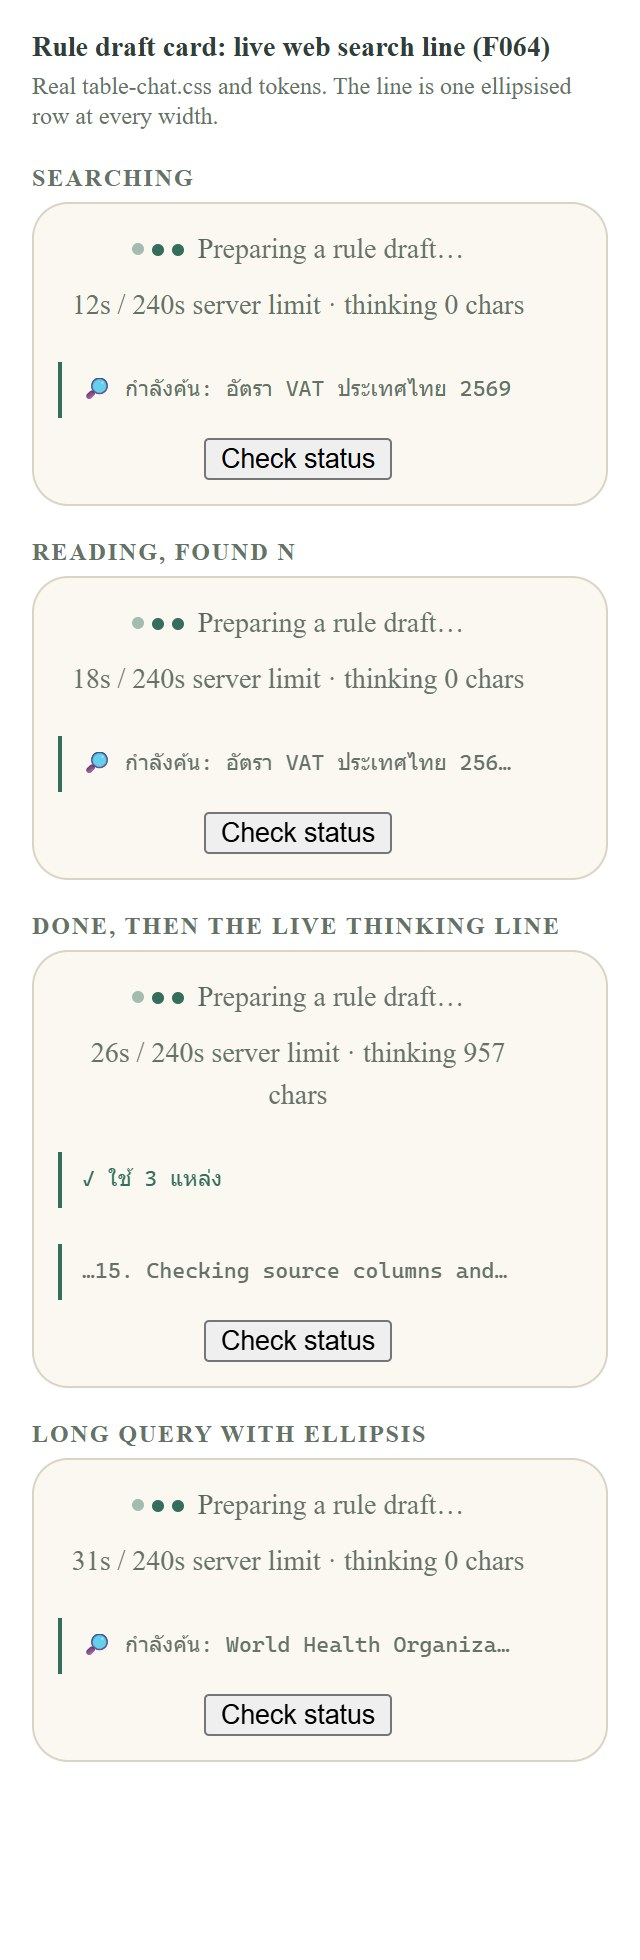
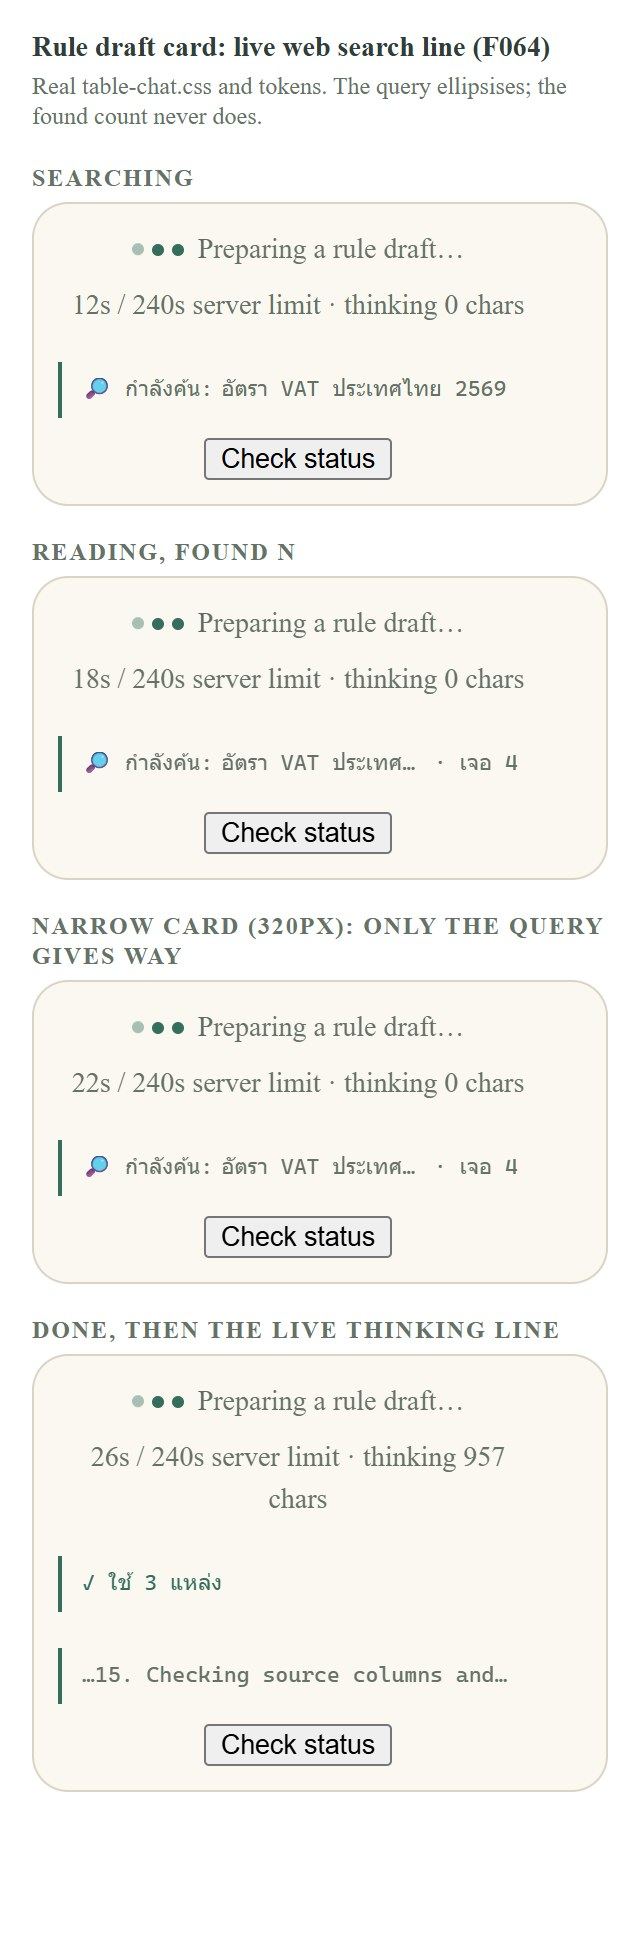
F064: keep the found count readable and stop the thinking line overflowing

diff --git a/src/tabletop/ui/useTableChat.tsx b/src/tabletop/ui/useTableChat.tsx
@@ -15,7 +15,7 @@ import { TABLE_AI_INPUT_BYTES } from '../domain/table';
 import { ClarificationAnswers } from './ClarificationAnswers';
 import { rememberConsent } from './table-chat-consent';
 import { viewerCan } from '../shared/permissions';
-import { draftFailureSummary, draftHistoryCard, draftInFlight, draftLimitSeconds, draftPartialLabel, draftPollLimitMs, draftRefreshPatch, draftSources, draftSourcesLabel, draftStopReason, draftThinkingLabel, historyCard, isUncertainRequest, liveSearchLine, liveThinkingLine, mergeChatHistory, nextQueuedDraft, sameChatRequestScope, tableChatMode, type ChatCard } from './table-chat-state';
+import { draftFailureSummary, draftHistoryCard, draftInFlight, draftLimitSeconds, draftPartialLabel, draftPollLimitMs, draftRefreshPatch, draftSources, draftSourcesLabel, draftStopReason, draftThinkingLabel, historyCard, isUncertainRequest, liveSearchParts, liveThinkingLine, mergeChatHistory, nextQueuedDraft, sameChatRequestScope, tableChatMode, type ChatCard } from './table-chat-state';
 
 type TableView = WorkspaceView & { kind: 'table'; domain: TableState };
 type CommandId = ReturnType<typeof crypto.randomUUID>;
@@ -928,11 +928,15 @@ function ChatCardContent({ card, view, readOnly, retryDisabled, busy, onOpenObje
     const liveThinkingTail = card.kind === 'draft' ? card.modelJob?.progress?.thinkingTail : undefined;
     const liveThinking = liveThinkingTail ? liveThinkingLine(liveThinkingTail) : null;
     // F064: the research step runs before the draft, and its closing line stays while it drafts.
-    const liveSearch = card.kind === 'draft' ? liveSearchLine(card.modelJob?.progress?.search) : null;
+    const liveSearch = card.kind === 'draft' ? liveSearchParts(card.modelJob?.progress?.search) : null;
     return <div className="tt-chat-card tt-chat-card--working" role="status" data-testid="table-chat-answer" data-phase={card.phase}>
       <p className="tt-chat-card__pending tt-chat-card__pending--working"><span className="tt-chat-dots" aria-hidden="true"><i /><i /><i /></span><span className="tt-chat-card__shimmer">{pendingText}</span><ElapsedLabel startedAt={card.job?.createdAt ?? card.createdAt} kind={card.kind} limitMs={card.kind === 'draft' ? card.modelJob?.limitMs : undefined} chars={progress?.receivedChars} reasoningChars={progress?.reasoningChars} /></p>
       {liveSearch && <div className="tt-chat-card__search" data-testid="draft-live-search" data-search-phase={card.modelJob?.progress?.search?.phase}>
-        <p className="tt-chat-card__search-line" aria-live="off">{liveSearch}</p>
+        <p className="tt-chat-card__search-line" aria-live="off">
+          <span className="tt-chat-card__search-text">{liveSearch.icon} {liveSearch.text}</span>
+          {liveSearch.query !== undefined && <span className="tt-chat-card__search-query">{liveSearch.query}</span>}
+          {liveSearch.found !== undefined && <span className="tt-chat-card__search-count">· เจอ {liveSearch.found}</span>}
+        </p>
       </div>}
       {liveThinking && <div className="tt-chat-card__thinking" data-testid="draft-live-thinking" data-thinking-chars={progress?.reasoningChars}>
         <p className="tt-chat-card__thinking-line" aria-live="off">{liveThinking}</p>

diff --git a/src/tabletop/ui/table-chat-state.ts b/src/tabletop/ui/table-chat-state.ts
@@ -305,18 +305,44 @@ export function liveThinkingLine(tail: string | undefined, maxChars = LIVE_THINK
 export const LIVE_SEARCH_QUERY_CHARS = 160;
 
 /**
- * F064: one line saying what the research step is doing: what it searches, what it found, and then
- * what the draft actually used. Re-bounded here as well, so a hostile or older job row cannot grow
- * the card. Returns null when there is nothing worth showing (no search, or no query text yet).
+ * F064: the pieces of that line, so the card can ellipsise only the query. On a 320px card the
+ * "· เจอ N" count would otherwise be the first thing cut, and it is the half users watch.
  */
-export function liveSearchLine(search: ModelJobSearchProgress | undefined, maxQueryChars = LIVE_SEARCH_QUERY_CHARS): string | null {
+export interface LiveSearchParts {
+  /** The glyph the agreed copy uses (`🔎` while working, `✓` when finished). */
+  icon: string;
+  /** Copy around the query: `กำลังค้น:` while working, `ใช้ 3 แหล่ง` when finished. */
+  text: string;
+  /** The bounded query, only while searching or reading. */
+  query?: string;
+  /** How many results the adapter kept, only while reading. */
+  found?: number;
+}
+
+/**
+ * F064: split the live search line so the found count can never be ellipsised away.
+ * Re-bounded here as well, so an older or hostile job row cannot grow the card.
+ */
+export function liveSearchParts(search: ModelJobSearchProgress | undefined, maxQueryChars = LIVE_SEARCH_QUERY_CHARS): LiveSearchParts | null {
   if (!search) return null;
-  if (search.phase === 'done') return `✓ ใช้ ${search.resultsCount} แหล่ง`;
+  if (search.phase === 'done') return { icon: '✓', text: `ใช้ ${search.resultsCount} แหล่ง` };
   const query = headWithin(search.query.replace(/\s+/gu, ' ').trim(), maxQueryChars).trim();
   if (!query) return null;
   return search.phase === 'reading'
-    ? `🔎 กำลังค้น: ${query} · เจอ ${search.resultsCount}`
-    : `🔎 กำลังค้น: ${query}`;
+    ? { icon: '🔎', text: 'กำลังค้น:', query, found: search.resultsCount }
+    : { icon: '🔎', text: 'กำลังค้น:', query };
+}
+
+/**
+ * F064: one line saying what the research step is doing: what it searches, what it found, and then
+ * what the draft actually used. Returns null when there is nothing worth showing.
+ */
+export function liveSearchLine(search: ModelJobSearchProgress | undefined, maxQueryChars = LIVE_SEARCH_QUERY_CHARS): string | null {
+  const parts = liveSearchParts(search, maxQueryChars);
+  if (!parts) return null;
+  if (parts.query === undefined) return `${parts.icon} ${parts.text}`;
+  const tail = parts.found === undefined ? '' : ` · เจอ ${parts.found}`;
+  return `${parts.icon} ${parts.text} ${parts.query}${tail}`;
 }
 
 /** F064 slice B: how much of a source title the card shows before the row wraps. */

diff --git a/src/tabletop/ui/table-chat.css b/src/tabletop/ui/table-chat.css
@@ -140,8 +140,10 @@
 .tt-app .tt-chat-card__partial--thinking > pre { max-height: 160px; color: var(--tt-muted); font-size: 11px; line-height: 16px; }
 
 /* F050: the live thinking line while a rule draft runs. One ellipsised line at any width, so a long
-   reasoning tail can never push the card's buttons off-screen at 320px; the full bound stays in the details. */
-.tt-app .tt-chat-card__thinking { display: grid; gap: 4px; min-width: 0; margin-top: var(--tt-space-2); }
+   reasoning tail can never push the card's buttons off-screen at 320px; the full bound stays in the details.
+   A working card centres its grid items, so the row must stretch explicitly or a nowrap tail sizes it
+   to content and overflows the card (the same trap F064 found). */
+.tt-app .tt-chat-card__thinking { display: grid; gap: 4px; min-width: 0; margin-top: var(--tt-space-2); justify-self: stretch; }
 .tt-app .tt-chat-card .tt-chat-card__thinking-line {
   display: block; min-width: 0; margin: 0; padding: 6px 10px; border-left: 2px solid var(--tt-moss);
   border-radius: 0 var(--tt-radius-medium, 10px) var(--tt-radius-medium, 10px) 0;
@@ -164,12 +166,16 @@
    centres its grid items, so the row must stretch explicitly or a nowrap query sizes it to content. */
 .tt-app .tt-chat-card__search { justify-self: stretch; margin-top: var(--tt-space-2); min-width: 0; }
 .tt-app .tt-chat-card .tt-chat-card__search-line {
-  display: block; min-width: 0; margin: 0; padding: 6px 10px; border-left: 2px solid var(--tt-moss);
+  display: flex; gap: 4px; align-items: baseline;
+  min-width: 0; margin: 0; padding: 6px 10px; border-left: 2px solid var(--tt-moss);
   border-radius: 0 var(--tt-radius-medium, 10px) var(--tt-radius-medium, 10px) 0;
   background: var(--tt-paper); color: var(--tt-muted);
   font-family: ui-monospace, 'Cascadia Mono', monospace; font-size: 11px; line-height: 16px;
-  white-space: nowrap; overflow: hidden; text-overflow: ellipsis;
+  white-space: nowrap; overflow: hidden;
 }
+/* Only the query gives way when the card is narrow: the "· เจอ N" count must always stay readable. */
+.tt-app .tt-chat-card__search-text, .tt-app .tt-chat-card__search-count { flex: none; }
+.tt-app .tt-chat-card__search-query { min-width: 0; overflow: hidden; text-overflow: ellipsis; }
 /* Once research is done the line stops moving and reports what the draft actually used. */
 .tt-app .tt-chat-card__search[data-search-phase='done'] .tt-chat-card__search-line { color: var(--tt-moss); }
 

diff --git a/src/tabletop/ui/table-chat-state.test.ts b/src/tabletop/ui/table-chat-state.test.ts
@@ -4,7 +4,7 @@ import { MAX_JOB_PARTIAL_CONTENT_CHARS, MAX_JOB_RESEARCH_SOURCES, MAX_JOB_SEARCH
 import {
   canApplyWorkspaceRefresh, DRAFT_SOURCE_TITLE_CHARS, draftFailureSummary, draftInFlight, draftLimitMs, draftLimitSeconds, draftPartialLabel,
   draftPollLimitMs, draftRefreshBackoffMs, draftRefreshPatch, draftSources, draftSourcesLabel, draftStopReason, draftThinkingLabel, formatSourceDate, historyCard,
-  LIVE_SEARCH_QUERY_CHARS, LIVE_THINKING_LINE_CHARS, liveSearchLine, liveThinkingLine, nextQueuedDraft, isUncertainRequest, mergeChatHistory, sameChatRequestScope, tableChatMode, type ChatCard,
+  LIVE_SEARCH_QUERY_CHARS, LIVE_THINKING_LINE_CHARS, liveSearchLine, liveSearchParts, liveThinkingLine, nextQueuedDraft, isUncertainRequest, mergeChatHistory, sameChatRequestScope, tableChatMode, type ChatCard,
 } from './table-chat-state';
 
 const job = (patch: Partial<TableAssistantJob> = {}): TableAssistantJob => ({
@@ -261,6 +261,16 @@ describe('live search line while a draft runs (F064)', () => {
 
   it('ends on what the draft actually used instead of repeating the query', () => {
     expect(liveSearchLine(search({ phase: 'done', resultsCount: 3 }))).toBe('✓ ใช้ 3 แหล่ง');
+  });
+
+  it('splits the line so only the query can be ellipsised and the count always shows', () => {
+    expect(liveSearchParts(search({ phase: 'reading', resultsCount: 4 })))
+      .toEqual({ icon: '🔎', text: 'กำลังค้น:', query: 'VAT ไทย 2569', found: 4 });
+    expect(liveSearchParts(search()))
+      .toEqual({ icon: '🔎', text: 'กำลังค้น:', query: 'VAT ไทย 2569' });
+    expect(liveSearchParts(search({ phase: 'done', resultsCount: 3 })))
+      .toEqual({ icon: '✓', text: 'ใช้ 3 แหล่ง' });
+    expect(liveSearchParts(undefined)).toBeNull();
   });
 
   it('re-bounds the query and collapses whitespace, so an oversized row cannot widen the card', () => {

diff --git a/docs/features/F064-web-search.md b/docs/features/F064-web-search.md
@@ -118,10 +118,20 @@ Node **22.23.2** · branch `feat/F064-search-visibility`
 ### ความเสี่ยง / ข้อจำกัดสไลซ์ A
 
 - **ยังไม่ยืนยันด้วย browser suite แบบ end-to-end**: provider, worker และ client line มี unit/worker test ครบ และมี harness render จริงแล้ว แต่ยังไม่มี fixture ที่ stream event ค้นผ่านเบราว์เซอร์ทั้งเส้น
-- **การ์ดแคบมาก (320px)**: บรรทัดเดียวจึงตัดท้ายด้วย `…` ได้ เช่น query ไทยยาวจะเห็น `…2569` โดย `· เจอ N` ถูกตัด (ที่ 414px เห็นครบ); บรรทัดปิด `✓ ใช้ N แหล่ง` สั้นจึงเห็นครบเสมอ — ตัวเลข"N ที่ใช้จริง" จึงไม่หาย
+- **การ์ดแคบมาก (320px)**: แก้แล้วใน follow-up 2026-10-23 — บรรทัดแยกเป็น span, ellipsis เฉพาะ query และ `· เจอ N` ถูกตรึงไว้ (`flex: none`) จึงเห็น count เสมอ
 - **ข้อความจากผู้ให้บริการ**: query มาจากโมเดลและ title มาจากเว็บสาธารณะ → redact ก่อนเก็บเหมือน thinking tail
 - **ค่าใช้จ่ายต่อ tick**: job row โตขึ้น ≤300 ตัวอักษรต่อครั้งที่เขียน (ไม่เกิน 1 ครั้ง/900 ms) และถูกเขียนทับด้วยผลลัพธ์เมื่อจบ
-- **ข้อสังเกต (ไม่แก้ในสไลซ์นี้):** บรรทัด `liveThinkingLine` ของ F050 เป็น grid item ใน `.tt-chat-card--working` ที่ `justify-items:center` จึงมีโอกาสถูกจัดขนาดตาม content (nowrap) แบบเดียวกับที่พบในสไลซ์นี้; สไลซ์นี้แก้เฉพาะ element ของตนด้วย `justify-self: stretch` — F050 ควรได้ `justify-self: stretch` เพิ่มถ้าพบข้อความยาวล้นในการ์ดแคบ
+- **F050 ได้รับการแก้แบบเดียวกันแล้ว** ใน follow-up นี้: `.tt-chat-card__thinking` มี `justify-self: stretch` — บรรทัด thinking ที่ยาวจะไม่ดันการ์ดอีก
+
+### Follow-up 2026-10-23 (branch `fix/F064-followups`)
+
+| เรื่อง | สิ่งที่แก้ |
+| --- | --- |
+| `· เจอ N` ถูกตัดที่ 320px | `liveSearchParts()` แยก `{icon, text, query, found}`; JSX แยก span `.tt-chat-card__search-query` (ellipsis) กับ `.tt-chat-card__search-count` (`flex: none`) — `liveSearchLine()` ยังคืนสตริงเดิมเพื่อ test/a11y |
+| F050 latent overflow | `.tt-chat-card__thinking { justify-self: stretch; }` — grid item ที่ถูก `justify-items:center` ไม่ถูกจัดขนาดตาม nowrap content |
+| browser fixture นับ provider call เกิน | dev แก้ `TABLE_WEB_SEARCH: 'off'` ใน `tests/*-browser.mjs` แล้ว (มาจาก F066); follow-up เติมให้ `scripts/{generic-table-local,canvas-evolution-local}.mjs` ในโหมด synthetic เท่านั้น (โหมด `--real-ai` ยังเปิด research) |
+
+ผลตรวจ (Node 22.23.2): unit **819 passed / 5 skipped** (113 ไฟล์), `test:cloudflare` **170/170**, `build` ผ่าน, `lint` 0 error / 107 warning, public scan 0 finding, ui-gate harness **15/16** (เหลือ "No emoji" ตาม copy `🔎`/`✓` ที่ handoff กำหนด) · เพิ่ม unit 2 เคสของ `liveSearchParts` และอัปเดตภาพ `docs/previews/f064-search-line-{320,414}.jpg` ให้เห็น count ครบที่การ์ดแคบ
 
 
 ## ผลตรวจ

diff --git a/PLAN.md b/PLAN.md
@@ -163,3 +163,4 @@
 | F064-T5..T7 | สไลซ์ A — เห็นสด "กำลังค้นอะไร เจออะไร": research provider มี `onProgress({phase,query,resultsCount,topTitle})` · worker ส่งต่อช่อง progress เดิมของ F050 (redact + bound ≤300, throttle 900 ms) · การ์ดแสดง `🔎 กำลังค้น: … · เจอ N` แล้วจบด้วย `✓ ใช้ N แหล่ง` | `review` | lead (AI) | `feat/F064-search-visibility` / #211 | `server/providers/{deepseek-research,deepseek-changes}.ts`, `cloudflare/{ai,room}.ts`, `src/tabletop/shared/model-job-progress.ts`, `src/tabletop/ui/{table-chat-state.ts,useTableChat.tsx,table-chat.css}`, `cloudflare/room.test.ts`, `server/providers/deepseek-research.test.ts`, `src/tabletop/ui/table-chat-state.test.ts` | — | research ยัง best-effort (ห้าม throw ทำให้ร่างล้ม) · เว้นเมื่อมี `fetchImpl` ฉีด · web sources ยังไม่เข้า `program.evidence` · ไม่มี migration/secret/binding |
 | F055-T1..T3 | "ตารางคำนวณจริง" แบบ Excel: parser (IF/CEIL/ROUND/MIN/MAX/AND/OR/compare/text), type-check, server คำนวณใน projectDomain เป็น computedValues (projection-only), UI ช่องสูตร + validation, local proof | `review` | lead (AI) | `feat/F055-computed-formulas` | `src/tabletop/shared/{computed-formula.ts,computed-columns.ts,table-contracts.ts}`, `src/tabletop/domain/projections.ts`, `src/tabletop/ui/TableCanvasObjects.tsx`, `tests/`, `docs/features/F055-computed-formulas.md` | — | ไม่แตะ schema/migration/AI; projection-only · [PR #203](https://github.com/Thanyers/tabletop/pull/203) |
 | F064-T8..T9 | สไลซ์ B — เห็น "ค้นอะไร เจอที่ไหน" บนการ์ดร่าง: job view มี `research?: {queries, sources:[{title,url,date,authority}]}` (optional) · การ์ดร่างมี `<details>Sources (N)</details>` + ลิงก์จริง/วันที่/authority โดย redact ตัวตนก่อนเก็บ | `review` | lead (AI) | `feat/F064-sources-card` / #214 | `cloudflare/{ai,room}.ts`, `src/tabletop/shared/model-job-progress.ts`, `src/tabletop/ui/{useTableChat.tsx,table-chat-state.ts,table-chat.css}`, tests, docs | — | web sources ยังไม่เข้า `program.evidence` (สไลซ์ C) · ต้องไม่หลุดชื่อ/ID สมาชิก · ไม่มี migration/secret/binding |
+| F064-T10 / F050-T7 | follow-up: `· เจอ N` ไม่ถูกตัดที่ 320px (แยก span, ellipsis เฉพาะ query) · `.tt-chat-card__thinking` ได้ `justify-self: stretch` กัน nowrap content ดันการ์ด · synthetic local scripts ปิด `TABLE_WEB_SEARCH` ให้ตรงกับ browser fixtures | `review` | lead (AI) | `fix/F064-followups` | `src/tabletop/ui/{table-chat-state.ts,useTableChat.tsx,table-chat.css}`, `src/tabletop/ui/table-chat-state.test.ts`, `scripts/{generic-table-local,canvas-evolution-local}.mjs`, docs, `spec.md`, `CHANGELOG.md` | — | copy `🔎`/`✓` คงเดิมตาม handoff; UI เท่านั้น ไม่มี migration/secret/binding |

diff --git a/CHANGELOG.md b/CHANGELOG.md
@@ -2,6 +2,8 @@
 
 ## Unreleased
 
+- **F064/F050 แก้บรรทัดล้น/ถูกตัดในการ์ดแคบ:** `liveSearchParts()` แยก query กับ `· เจอ N` เป็นคนละ span ⇒ คำว่า "เจอ N" ไม่ถูก ellipsis ตัดที่ 320px อีก (สตริงรวมยังเหมือนเดิมผ่าน `liveSearchLine()`) · `.tt-chat-card__thinking` ของ F050 ได้ `justify-self: stretch` กัน nowrap content ดันการ์ดเกินจอ · synthetic local scripts (`generic-table-local`, `canvas-evolution-local`) ปิด `TABLE_WEB_SEARCH` เฉพาะโหมดไม่มี real AI ให้ตรงกับ browser fixtures (dev ปิดใน `tests/*-browser.mjs` แล้ว) · ไม่มี migration/secret/binding; rollback = revert branch
+
 - **วิธีคำนวณที่เก็บไว้ใช้ซ้ำ (F066):** AI เตรียมสูตร, JavaScript หรือ Python/pandas ตาม runtime ที่เปิดจริง แล้วคำนวณซ้ำจากข้อมูลใหม่โดยไม่เรียก AI; typed ports เชื่อม metric/กราฟ/ตารางและ module อื่น มีรุ่น ประวัติ ผู้รัน ที่มา และการตรวจผลเก่า เก็บในห้องเดิมและกู้คิวหลังกลับมาเปิดได้ · Rules อ่านเป็นชื่อ/วัตถุประสงค์ก่อน พร้อม Ask / Change this rule รายข้อและ Advanced; import แถว CSV/Excel เลือก append หรือยืนยัน replace ได้ · ไม่มี SQL migration; ก่อน release ต้องเตรียม Worker Loader และเปิด Python container ตาม [runtime contract](docs/REUSABLE_COMPUTE.md) ผล hosted Python ยังไม่ยืนยัน
 
 - **หน้าแรกสองภาษา English / ไทย (F069, MINOR):** ปุ่ม `English` / `ไทย` ที่หัวหน้าสลับทั้งหน้ารวมกล่องเข้าสู่ระบบและ welcome back · ค่าเริ่มต้นอังกฤษ จำค่าใน localStorage และ `<html lang>` เปลี่ยนตาม · ข้อความทั้งหมดอยู่ที่ `src/tabletop/ui/landing-copy.ts` · หัวข้อไทยไม่ใช้ letter-spacing ติดลบ · meta/SEO ใน `index.html` ยังเป็นอังกฤษ (URL เดียว ไม่มี hreflang) · แทน draft #180 · client อย่างเดียว ไม่มี migration/secret/binding; rollback = revert

diff --git a/docs/features/F050-live-thinking.md b/docs/features/F050-live-thinking.md
@@ -109,6 +109,8 @@ Node **22.23.2** (รุ่นเดียวกับ CI) · branch `feat/F050-
 
 ภาพที่เห็น: การ์ดร่างกฎระหว่างรอมี `2s / 240s server limit · thinking 957 chars` แล้วบรรทัด `…15. Checking source columns and drafting rule 16. Checking source columns…` พร้อม `More of the latest thinking` — ข้อความขยับทุกครั้งที่ poll ได้ progress ใหม่
 
+**แก้เพิ่ม 2026-10-23 (F064 follow-up):** `.tt-chat-card__thinking` เป็น grid item ใน `.tt-chat-card--working` ที่ตั้ง `justify-items: center` จึงถูกจัดขนาดตาม content (nowrap) และบรรทัด thinking ที่ยาวจะดันการ์ดเกิน 320px ได้ · เพิ่ม `justify-self: stretch` ให้ element นี้ (เจอบั๊กเดียวกันตอนทำสไลซ์ A ของ F064 แล้วแก้ทั้งสองที่)
+
 ## หมายเหตุถึงข้อ Complaint "การ์ดหายเงียบ"
 
 อาการที่ผู้ใช้รายงานว่า "ผ่านหมดแล้วการ์ดหาย" **ไม่ใช่** อาการที่ F050 ทำให้เกิด — มันคือพฤติกรรมจาก #156/#157 ที่ตั้งใจเอาการ์ดที่ auto-apply แล้วออกจาก canvas แล้วแทนด้วยแถบ "New rules added …" 15 วินาที — และแถบนั้นยิงจาก effect ที่ต้องเห็นการ์ดในสถานะ sending/waiting ก่อน ถ้าการ์ดจบเร็วหรือหน้านั้นเพิ่งเปิด การ์ดจะถูกกรองออกโดยไม่มีแถบแทน ⇒ **หายเงียบ** · F050 แก้ส่วนนี้ด้วย: การ์ดที่ `createdAt >= mountedAt` (เกิดหลังเปิดหน้า) นับว่า "เห็นแล้ว" และแจ้งเตือนเสมอ · การ์ดเก่าที่จบก่อนเปิดหน้ายังไม่แจ้ง (ตั้งใจ) · ถ้าต้องการให้การ์ดผลลัพธ์ค้างบน canvas เอง นั่นคือการกลับ decision ของ #157 ต้องให้เจ้าของผลิตภัณฑ์ตัดสิน
